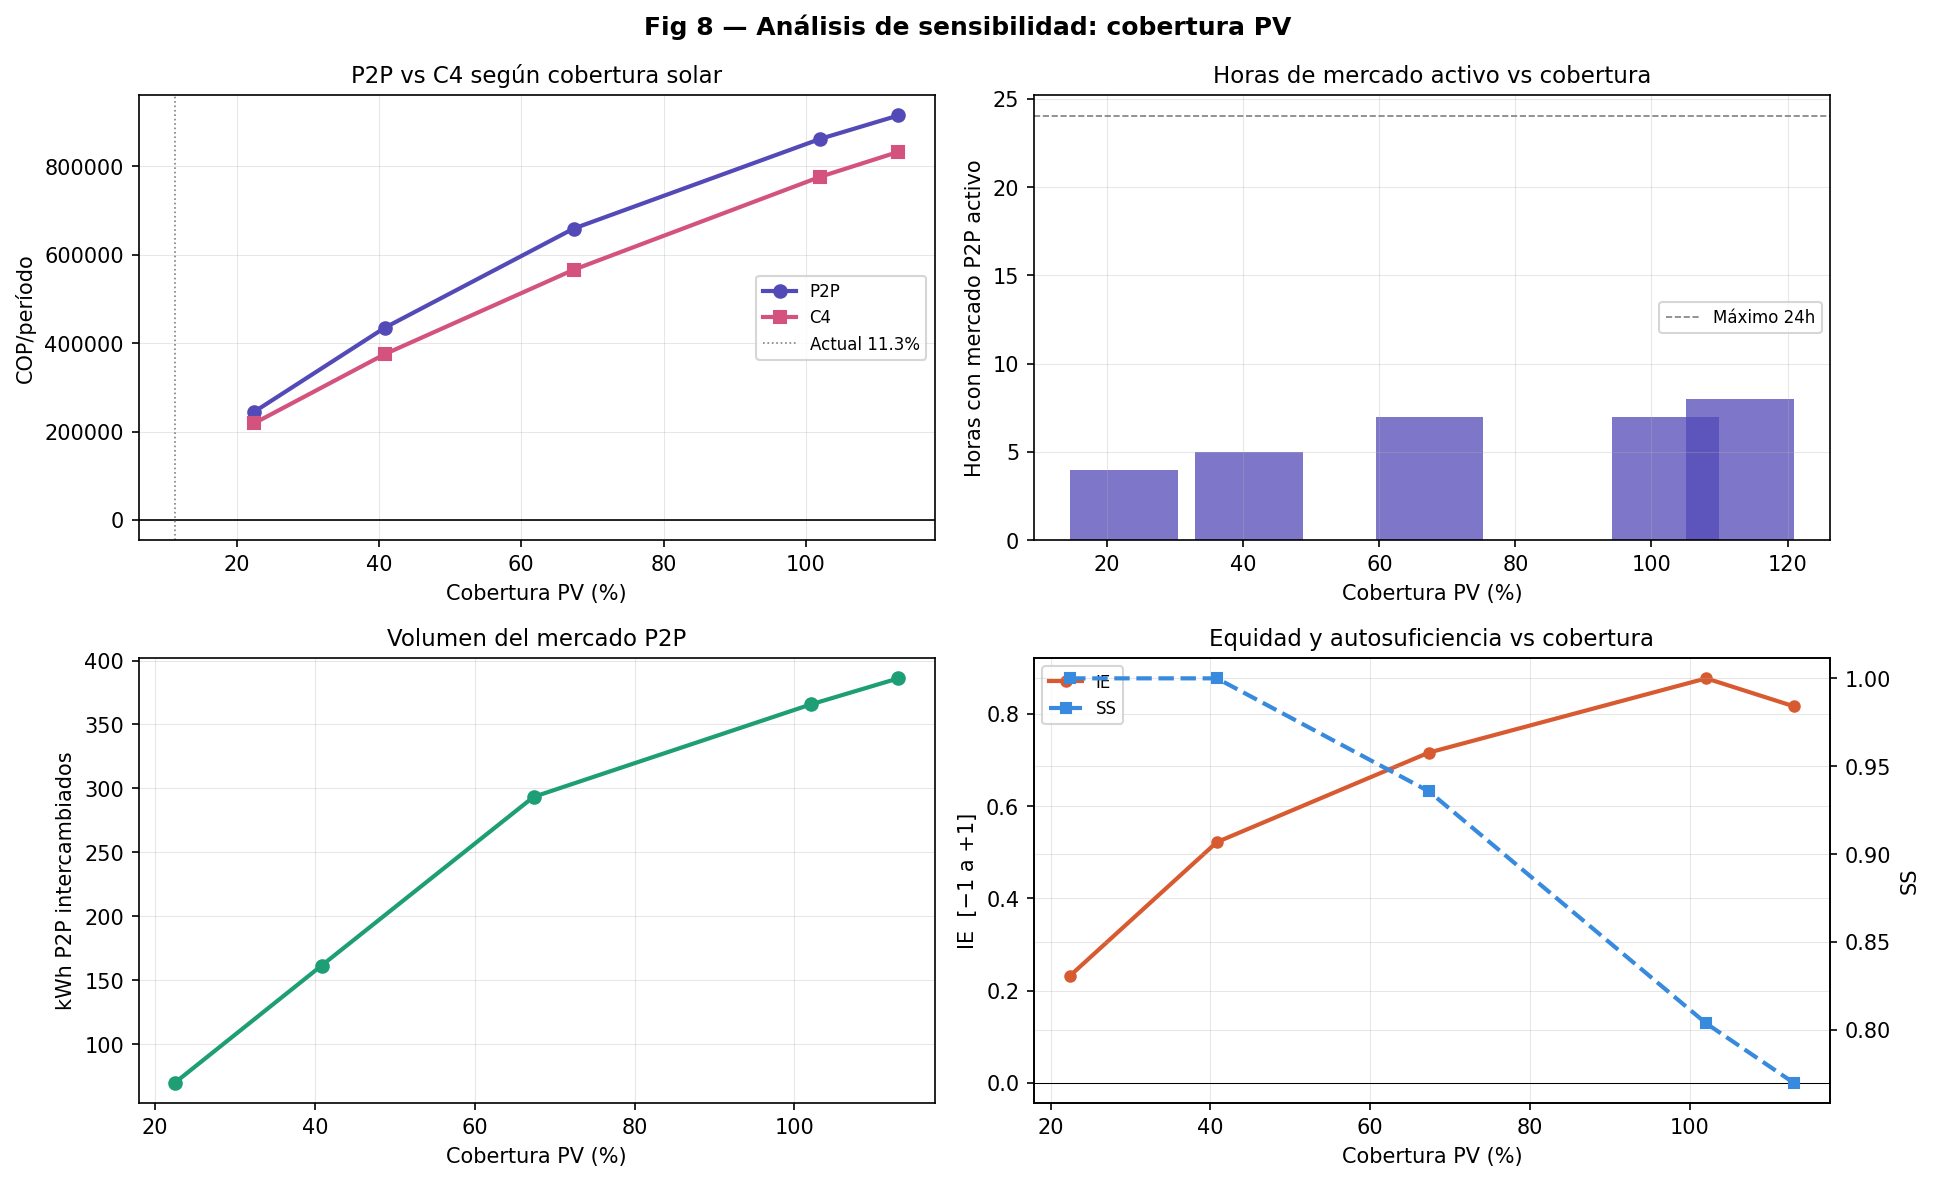
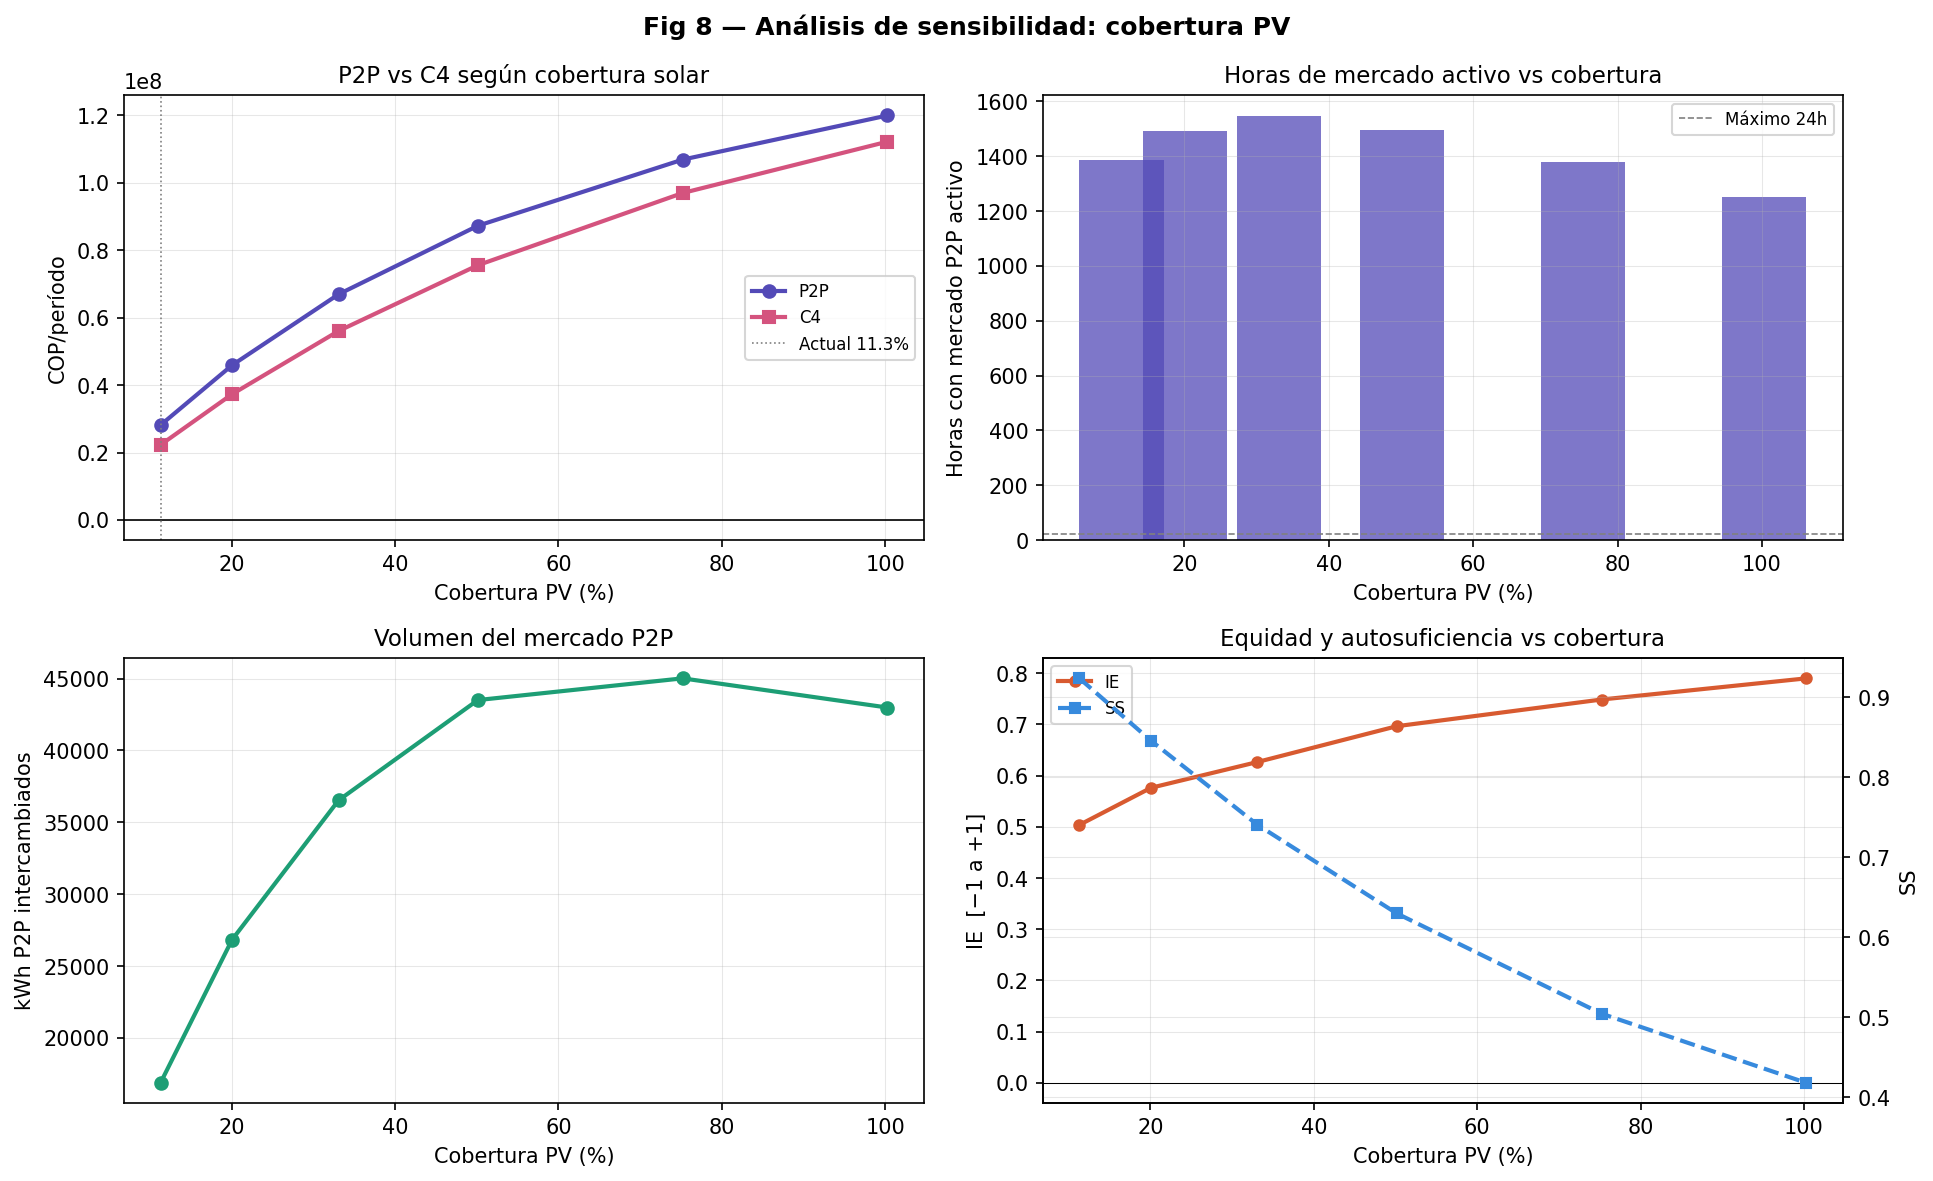
Act 3.2 - consolida resultados del horizonte completo 5160h
Primera ejecucion limpia de main_simulation.py --data real --full
--analysis end-to-end (100 min, exit 0) tras aplicar las optimizaciones
LSODA y los fixes de subperiod/comparison_engine.

Resultados definitivos:
- P2P: 28.12 MCOP, C1: 35.56 MCOP, C3: 25.95 MCOP, C4: 22.26 MCOP
- IE P2P = +0.5038, Gini P2P = 0.1716, RPE vs C4 = +0.2084
- 1387/5160 horas con mercado activo (26.9%), 16870 kWh P2P transados
- Subperiodos: RPE entre +0.2202 y +0.2722, sin inversion de signo
- SA-1 PGB sobre 5160h: RPE de +0.2447 a +0.0881, siempre positivo
- SA-2 factor PV: ventaja P2P-C4 no-monotona, maximo en factor 4.44x
- Bootstrap diario (215 dias): p<0.001, Cohen d = 0.67

Figuras regeneradas:
- Nuevas: fig11_convergencia_h3683.png, fig12_comparacion_mensual.png
- Actualizadas: fig1-10, 13-17 con datos del horizonte completo

REPORTE_AVANCES.md regenerado automaticamente; no es fuente de verdad
para documentos de tesis (esa vive en otro repo).

diff --git a/REPORTE_AVANCES.md b/REPORTE_AVANCES.md
@@ -1,6 +1,6 @@
 # Reporte de Avances — Tesis P2P Colombia
 
-**Autor:** Brayan S. Lopez-Mendez | **Fecha:** 2026-04-17 18:22
+**Autor:** Brayan S. Lopez-Mendez | **Fecha:** 2026-04-23 19:21
 **Asesores:** Andrés Pantoja · Germán Obando | **Udenar, 2026**
 
 ---
@@ -9,46 +9,46 @@
 
 | Parámetro | Valor |
 |-----------|-------|
-| Datos | Empíricos MTE — perfil diario promedio (24h) |
+| Datos | Empíricos MTE — 5160h completas |
 | Agentes | 5 instituciones Pasto (MTE) |
-| Horizonte | 24h (1 días) |
-| Horas con mercado P2P | 3/24 (12.5%) |
-| Energía P2P total | 33.9 kWh/período |
+| Horizonte | 5160h (215 días) |
+| Horas con mercado P2P | 1387/5160 (26.9%) |
+| Energía P2P total | 16869.8 kWh/período |
 | Precios | PGS=650.0 · PGB=280.0 COP/kWh |
 
 ## 2. Datos empíricos MTE
 
 | Institución | D̄ (kW) | Ḡ (kW) | Cobertura PV |
 |-------------|---------|---------|-------------|
-| Udenar | 14.4 | 3.0 | 21% |
-| Mariana | 17.9 | 1.5 | 8% |
-| UCC | 78.2 | 1.7 | 2% |
-| HUDN | 27.7 | 1.5 | 5% |
-| Cesmag | 15.7 | 0.8 | 5% |
-| **Comunidad** | **153.9** | **8.5** | **5.5%** |
+| Udenar | 7.5 | 3.9 | 52% |
+| Mariana | 13.8 | 1.8 | 13% |
+| UCC | 42.1 | 2.2 | 5% |
+| HUDN | 21.7 | 1.7 | 8% |
+| Cesmag | 9.0 | 1.0 | 11% |
+| **Comunidad** | **94.1** | **10.6** | **11.3%** |
 
 ## 3. Resultados comparación regulatoria
 
 | Escenario | Ganancia neta (COP) | SC | SS | IE |
 |-----------|--------------------------|-----|-----|-----|
-| P2P (Stackelberg + RD) | 123,433 | 0.055 | 1.000 | 0.0922 |
-| C1 CREG 174/2021 | 132,926 | 0.046 | 0.834 | -0.3993 |
-| C2 Bilateral PPA | 120,381 | 0.046 | 0.834 | -0.3367 |
-| C3 Mercado spot | 114,432 | 0.046 | 0.834 | -0.3022 |
-| C4 CREG 101 072 ★ | 110,888 | 0.046 | 0.834 | -0.2799 |
+| P2P (Stackelberg + RD) | 28,120,523 | 0.104 | 0.924 | 0.5038 |
+| C1 CREG 174/2021 | 35,563,088 | 0.069 | 0.615 | -0.2628 |
+| C2 Bilateral PPA | 27,773,510 | 0.069 | 0.615 | -0.1036 |
+| C3 Mercado spot | 25,946,467 | 0.069 | 0.615 | -0.0465 |
+| C4 CREG 101 072 ★ | 22,259,344 | 0.069 | 0.615 | 0.0918 |
 
-**RPE (P2P vs C4):** 0.1016
-**Spread ineficiencia estática C4:** 12.628 kWh/período
+**RPE (P2P vs C4):** 0.2084
+**Spread ineficiencia estática C4:** 6732.007 kWh/período
 
 ### 3.1 Ventaja P2P vs C4 por institución
 
 | Institución | P2P (COP) | C4 (COP) | Ventaja P2P (COP) |
 |-------------|---------|---------|-----------------|
-| Udenar | 30,201 | 24,508 | +5,694 ✓ P2P mejor |
-| Mariana | 26,919 | 23,493 | +3,425 ✓ P2P mejor |
-| UCC | 27,098 | 27,098 | +0 ✓ P2P mejor |
-| HUDN | 26,389 | 22,963 | +3,425 ✓ P2P mejor |
-| Cesmag | 12,825 | 12,825 | +0 ✓ P2P mejor |
+| Udenar | 3,800,803 | 2,613,250 | +1,187,553 ✓ P2P mejor |
+| Mariana | 5,250,423 | 4,535,551 | +714,872 ✓ P2P mejor |
+| UCC | 8,331,716 | 6,624,661 | +1,707,055 ✓ P2P mejor |
+| HUDN | 6,870,693 | 5,526,201 | +1,344,491 ✓ P2P mejor |
+| Cesmag | 3,866,888 | 2,959,680 | +907,209 ✓ P2P mejor |
 
 ### 3.2 Nota sobre C1 = C3
 
@@ -63,11 +63,11 @@ y en días con baja demanda institucional (fines de semana, festivos).
 
 | Métrica | Valor | Interpretación |
 |---------|-------|----------------|
-| SC (P2P) | 0.055 | Fracción demanda cubierta internamente |
-| SS (P2P) | 1.000 | Fracción generación usada en comunidad |
-| IE (P2P) | 0.0922 | Distribución beneficio (0=equitativo) |
-| IE (C4)  | -0.2799 | Referencia regulatoria vigente |
-| RPE      | 0.1016 | Rendimiento relativo P2P vs C4 (RPE ≠ PoF Bertsimas 2011) |
+| SC (P2P) | 0.104 | Fracción demanda cubierta internamente |
+| SS (P2P) | 0.924 | Fracción generación usada en comunidad |
+| IE (P2P) | 0.5038 | Distribución beneficio (0=equitativo) |
+| IE (C4)  | 0.0918 | Referencia regulatoria vigente |
+| RPE      | 0.2084 | Rendimiento relativo P2P vs C4 (RPE ≠ PoF Bertsimas 2011) |
 
 ## 5. Análisis de sensibilidad
 
@@ -75,41 +75,42 @@ y en días con baja demanda institucional (fines de semana, festivos).
 
 | PGB (COP/kWh) | P2P (COP) | C4 (COP) | IE P2P | RPE |
 |---------------|---------|---------|--------|-----|
-| 200 | 126,145 | 110,888 | 0.092 | 0.121 |
-| 250 | 124,450 | 110,888 | 0.092 | 0.109 |
-| 280 | 123,433 | 110,888 | 0.092 | 0.102 |
-| 300 | 122,755 | 110,888 | 0.092 | 0.097 |
-| 350 | 121,060 | 110,888 | 0.092 | 0.084 |
-| 400 | 119,364 | 110,888 | 0.092 | 0.071 |
-| 450 | 117,669 | 110,888 | 0.092 | 0.058 |
-| 500 | 115,974 | 110,888 | 0.092 | 0.044 |
+| 200 | 29,470,108 | 22,259,344 | 0.504 | 0.245 |
+| 250 | 28,626,617 | 22,259,344 | 0.504 | 0.222 |
+| 280 | 28,120,523 | 22,259,344 | 0.504 | 0.208 |
+| 300 | 27,783,127 | 22,259,344 | 0.504 | 0.199 |
+| 350 | 26,939,636 | 22,259,344 | 0.504 | 0.174 |
+| 400 | 26,096,146 | 22,259,344 | 0.504 | 0.147 |
+| 450 | 25,252,655 | 22,259,344 | 0.504 | 0.119 |
+| 500 | 24,409,165 | 22,259,344 | 0.504 | 0.088 |
 
 ### SA-2: Variación cobertura PV
 
 | Factor PV | Cobertura (%) | P2P (COP) | C4 (COP) | Horas mercado | kWh P2P |
 |-----------|--------------|---------|---------|--------------|---------|
-| 1.99x | 22% | 244,541 | 218,692 | 4 | 69.9 |
-| 3.61x | 41% | 434,964 | 375,207 | 5 | 161.5 |
-| 5.96x | 67% | 659,195 | 566,029 | 7 | 293.4 |
-| 9.03x | 102% | 862,370 | 776,661 | 7 | 365.7 |
-| 10.00x | 113% | 915,194 | 832,840 | 8 | 386.1 |
+| 1.00x | 11% | 28,120,523 | 22,259,344 | 1387 | 16869.8 |
+| 1.78x | 20% | 45,870,181 | 37,288,152 | 1491 | 26828.8 |
+| 2.93x | 33% | 66,899,116 | 56,020,876 | 1545 | 36530.2 |
+| 4.44x | 50% | 87,210,054 | 75,513,532 | 1495 | 43507.1 |
+| 6.66x | 75% | 106,819,515 | 96,920,588 | 1378 | 45018.2 |
+| 8.88x | 100% | 119,904,386 | 112,142,866 | 1251 | 42987.1 |
 
 ## 6. Análisis de factibilidad
 
 ### FA-1: Condición de deserción del P2P
 
-- Precio P2P nunca menor que bolsa: **Sí**
-- Umbral crítico precio bolsa: **448 COP/kWh**
+- Precio P2P nunca menor que bolsa: **No**
+- Umbral crítico precio bolsa: **363 COP/kWh**
 
 ### FA-2: Cumplimiento CREG 101 072/2025
 
 | Institución | Participación (%) | Cumple 10% | Cap. max (kW) | Cumple 100kW |
 |-------------|------------------|-----------|--------------|-------------|
-| Udenar | 1.94% | ✓ | 14.0 | ✓ |
-| Mariana | 0.98% | ✓ | 6.9 | ✓ |
-| UCC | 1.13% | ✓ | 7.6 | ✓ |
-| HUDN | 0.96% | ✓ | 6.6 | ✓ |
-| Cesmag | 0.53% | ✓ | 2.8 | ✓ |
+| Udenar | 4.20% | ✓ | 32.2 | ✓ |
+| Mariana | 1.88% | ✓ | 14.6 | ✓ |
+| UCC | 2.36% | ✓ | 15.1 | ✓ |
+| HUDN | 1.79% | ✓ | 13.8 | ✓ |
+| Cesmag | 1.04% | ✓ | 8.1 | ✓ |
 
 **Score de robustez C4:** 1.00 (1=máxima robustez)
 
@@ -123,13 +124,13 @@ Umbral crítico `π_gb^*_n`: precio de bolsa donde el agente es indiferente.
 
 | Agente | B_P2P (COP) | B_alt (COP) | Δ_n (COP) | Δ_n/B_alt | π_gb^*_n | Estado |
 |--------|---------|---------|---------|----------|---------|--------|
-| Udenar | 30,201 | 46,546 | -16,344 | -35.1% | 180 | en riesgo |
-| Mariana | 26,919 | 23,493 | +3,425 | +14.6% | >rango | estable |
-| UCC | 27,098 | 27,098 | +0 | +0.0% | >rango | estable |
-| HUDN | 26,389 | 22,963 | +3,425 | +14.9% | >rango | estable |
-| Cesmag | 12,825 | 12,825 | +0 | +0.0% | >rango | estable |
+| Udenar | 3,800,803 | 13,245,552 | -9,444,749 | -71.3% | 180 | en riesgo |
+| Mariana | 5,250,423 | 5,924,324 | -673,902 | -11.4% | 180 | en riesgo |
+| UCC | 8,331,716 | 7,455,886 | +875,830 | +11.7% | >rango | estable |
+| HUDN | 6,870,693 | 5,652,570 | +1,218,123 | +21.5% | >rango | estable |
+| Cesmag | 3,866,888 | 3,284,757 | +582,132 | +17.7% | >rango | estable |
 
-**Agentes estables (4/5):** Mariana, UCC, HUDN, Cesmag
+**Agentes estables (3/5):** UCC, HUDN, Cesmag
 **Umbral comunitario (mediana individual):** >rango (>500.0) COP/kWh
 **Umbral agregado P2P < max(C1,C4):** >rango (>500.0) COP/kWh
 
@@ -137,32 +138,23 @@ Umbral crítico `π_gb^*_n`: precio de bolsa donde el agente es indiferente.
 
 | pi_gb | Udenar | Mariana | UCC | HUDN | Cesmag | Σ Δ |
 |-------|--------|--------|--------|--------|--------|--------|
-| 200 | -13,632 | +3,425 | +0 | +3,425 | +0 | -6,781 |
-| 250 | -15,327 | +3,425 | +0 | +3,425 | +0 | -8,476 |
-| 280 | -16,344 | +3,425 | +0 | +3,425 | +0 | -9,493 |
-| 300 | -17,022 | +3,425 | +0 | +3,425 | +0 | -10,171 |
-| 350 | -18,718 | +3,425 | +0 | +3,425 | +0 | -11,867 |
-| 400 | -20,413 | +3,425 | +0 | +3,425 | +0 | -13,562 |
-| 450 | -22,108 | +3,425 | +0 | +3,425 | +0 | -15,257 |
-| 500 | -23,803 | +3,425 | +0 | +3,425 | +0 | -16,952 |
+| 200 | -8,350,761 | -537,660 | +917,393 | +1,243,027 | +635,020 | -6,092,980 |
+| 250 | -9,034,503 | -622,811 | +891,417 | +1,227,462 | +601,965 | -6,936,471 |
+| 280 | -9,444,749 | -673,902 | +875,830 | +1,218,123 | +582,132 | -7,442,565 |
+| 300 | -9,718,246 | -707,962 | +865,440 | +1,211,897 | +568,910 | -7,779,961 |
+| 350 | -10,401,988 | -793,113 | +839,463 | +1,196,332 | +535,854 | -8,623,452 |
+| 400 | -11,085,730 | -878,264 | +813,486 | +1,180,767 | +502,799 | -9,466,942 |
+| 450 | -11,769,473 | -963,415 | +787,509 | +1,165,202 | +469,744 | -10,310,433 |
+| 500 | -12,453,215 | -1,048,566 | +761,532 | +1,149,637 | +436,688 | -11,153,923 |
 
 ---
 
-## 7. Ejecuciones completadas (adicionales al perfil promedio)
+## 7. Pendiente
 
-| Run | Fecha | Archivo de log | Descripción |
-|-----|-------|----------------|-------------|
-| Día de referencia | 2026-04-17 | `outputs/run_day_2025-08-06_1458.log` | Miércoles laborable, irradiancia alta. Sub-períodos SP1–SP4 (Laborable/Finde × Jul/Ene). RPE = 0.1581 (Laborable-Jul). |
-| GSA Sobol n_base=64 | 2026-04-17 | `resultados_gsa.xlsx` | 7 parámetros, 3 outputs (ganancia, SC, IE), 1 024 evaluaciones. Factor dominante SC: `factor_PV`; IE: `PGB`. IC amplios; orden cualitativo interpretable. |
-| Bootstrap P2P vs C4 | 2026-04-17 | `resultados_tests.xlsx` | n=500 bloques, block_days=7, seed=42. Δ̄ = 7 489 COP/día, IC 95 % = [6 051, 8 963], p-Wilcoxon = 0.000, Cohen's d = 0.67 (n_eff = 30). |
-
-## 8. Pendiente
-
-- [ ] **Horizonte completo 5 160 h (postergado):** `python main_simulation.py --data real --full --analysis`. Condición de cierre para Actividad 3.2 y valor definitivo de IE, RPE y métricas mensuales. Ver `Documentos/Matriz_Trazabilidad.md`.
-- [ ] Verificar LCOE real de inversores instalados en cada institución (parámetro `b_n`).
-- [ ] GSA n_base ≥ 256 (~3–4 h) para IC estrechos en S1/ST (opcional para publicación).
-- [ ] Bootstrap sobre serie de 5 160 h (depende del run `--full`).
+- [ ] Correr horizonte completo 5160h: `python main_simulation.py --data real --full --analysis`
+- [ ] Descargar serie horaria XM Jul 2025-Ene 2026 → `data/xm_precios_bolsa.csv`
+- [ ] Verificar LCOE real de inversores instalados en cada institución
+- [ ] Análisis sub-período: laborables vs fines de semana, julio vs enero
 
 ---
-*Sección §1–§6 generada automáticamente por main_simulation.py · 2026-04-17 18:22*
-*Secciones §7–§8 actualizadas manualmente · 2026-04-17*
+*Generado automáticamente por main_simulation.py · 2026-04-23 19:21*
